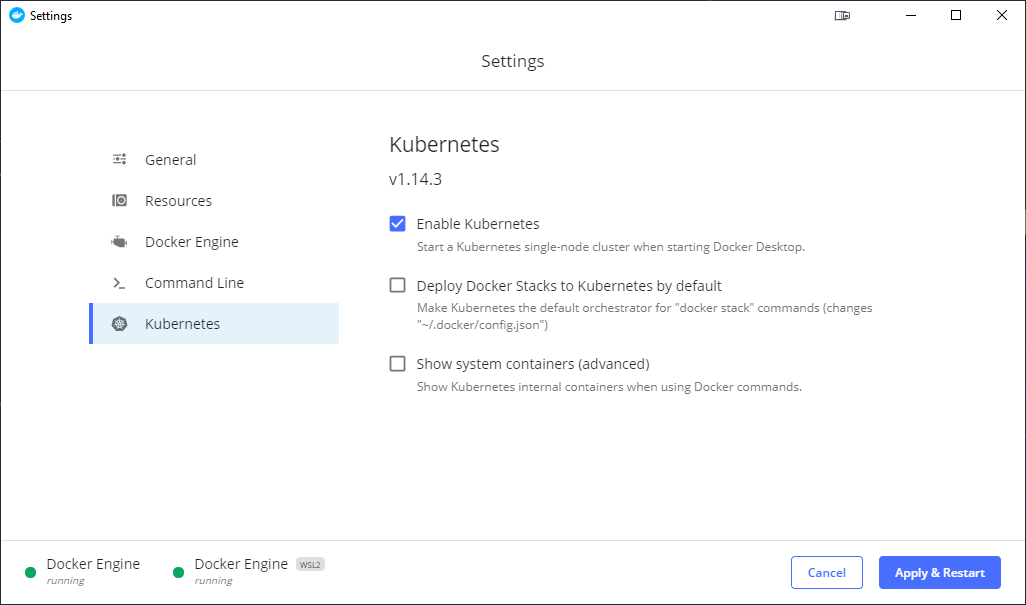
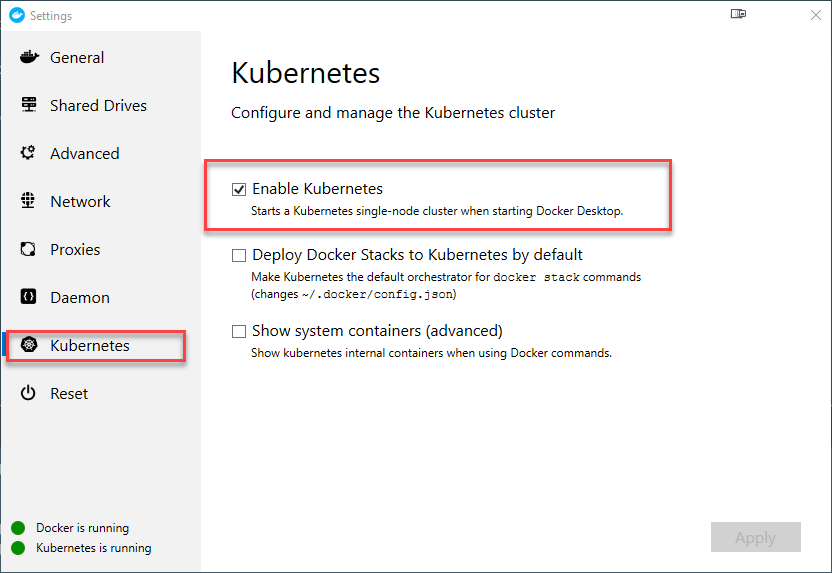
readme

diff --git a/09 CI-CD/readme.md b/09 CI-CD/readme.md
@@ -230,11 +230,20 @@ try_files $uri $uri/ /index.html =404;
 
 ## Kubernetes
 
-![Kubernetes](_images/kubernetes.png)
-
 [Kubernetes Base Terms](https://docs.bytemark.co.uk/article/kubernetes-terminology-glossary/)
 
 [Kubectl Commands](https://kubernetes.io/docs/reference/generated/kubectl/kubectl-commands)
+
+Enable Kubernetes in Docker Desktop:
+
+- Go to Docker Desktop Settings
+- Check Enable Kubernetes -> Press Yes to install
+
+![Kubernetes](_images/kubernetes.png)
+
+### Getting Started
+
+---
 
 ### Google Cloud Code
 
